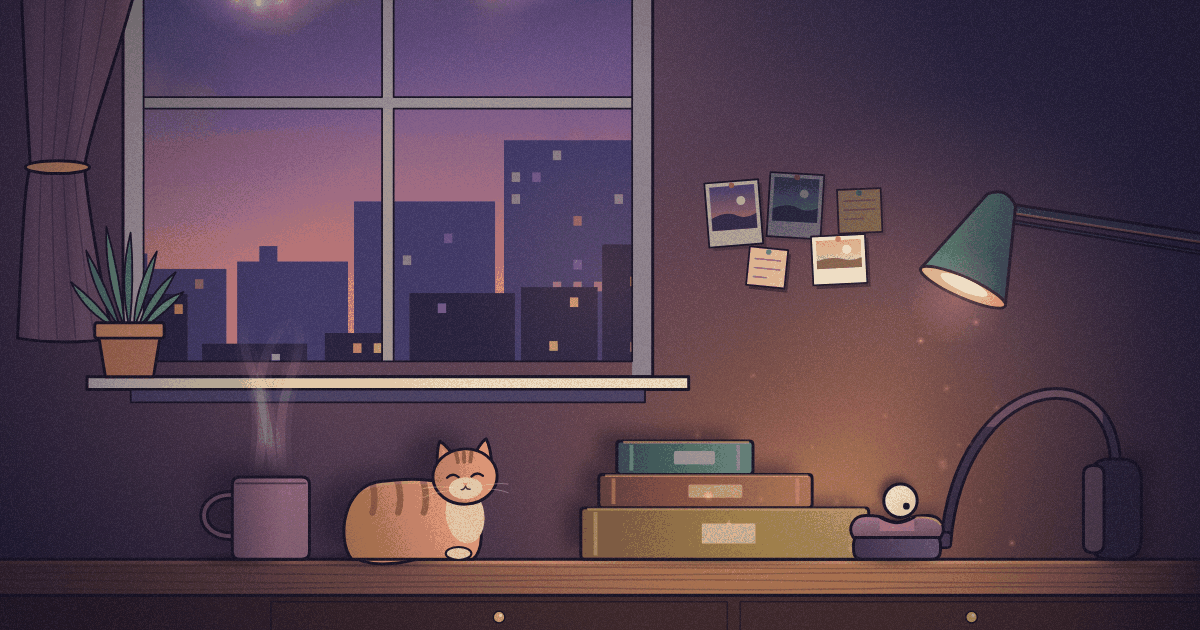
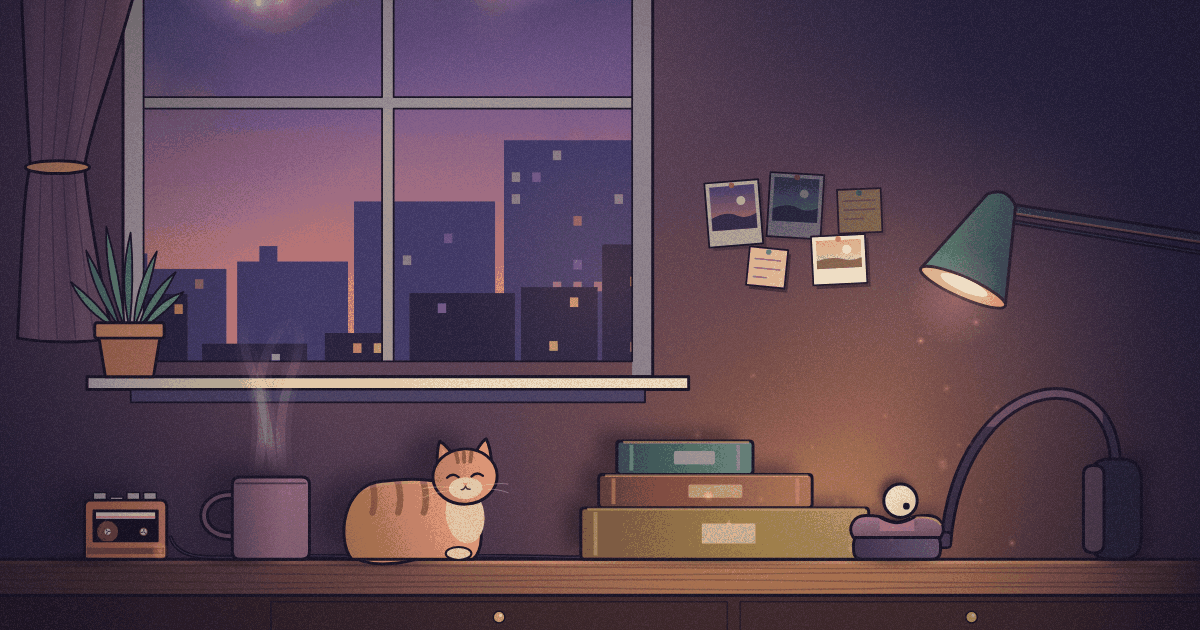
Soft Lamp: a Walkman, birds at dusk, and a cat that looks up
The fourth lofi pass:

- lamp/walkman.ts: a Walkman on the empty end of the desk left of the mug,
  in view through the sill's frames. The headphones' cable runs to it along
  the desk; the cassette's tape winds from one reel to the other over the
  half hour, a clock you can see; the play key is down while the music
  plays and comes up when it stops; its light flickers with the loudness.
  Held frames show it whole or not at all (it joins the check's props).
- Two small flocks of birds cross the dusk, one under the title.
- The cat looks up and follows a car's headlights across the wall.
- Share card regenerated; the report has the pass.

Changed region(s): [[0.0617, 0.7841, 0.1542, 0.9048], [0.4008, 0.8746, 0.4625, 0.9048]]

diff --git a/apps/rube/src/shows/versions/soft-lamp/lamp/walkman.ts b/apps/rube/src/shows/versions/soft-lamp/lamp/walkman.ts
@@ -1,0 +1,162 @@
+import { mixHex } from '../../../../parts'
+import { CUP, WALKMAN } from './desk'
+import { MUSIC_END, rmsAt } from './music'
+import { rgba } from './sky'
+import { INK, LAMP_ON, lampAt, lightAt, lit } from './world'
+
+/**
+ * The Walkman: what the headphones are plugged into, and the show's clock you can see. Through its window the cassette
+ * turns, the tape going from one reel to the other over the half hour, the take-up reel fuller as the night goes; its
+ * play key is down while the music plays and comes up when it stops; and its little red light flickers with how loud
+ * the music is. Its cable runs from the near cup along the desk, behind everything, and up into its side.
+ */
+
+type Ctx = CanvasRenderingContext2D
+
+/** When it plays: from the first chord to the music's end. */
+const playing = (t: number): boolean => t >= LAMP_ON - 0.5 && t <= MUSIC_END
+const progress = (t: number): number => Math.max(0, Math.min(1, t / MUSIC_END))
+
+/** The cable, from the near cup's shell down to the desk, along it, and up into the Walkman's side. */
+export function cable(ctx: Ctx, lw: number): void {
+  const y = -0.014
+  const jack = { x: WALKMAN.x1, y: -0.17 }
+  ctx.beginPath()
+  ctx.moveTo(CUP.x - CUP.halfW + 0.04, -0.1)
+  ctx.quadraticCurveTo(CUP.x - CUP.halfW - 0.12, y, CUP.x - CUP.halfW - 0.4, y)
+  // Lying along the desk, with the loose waves a cable keeps.
+  const from = CUP.x - CUP.halfW - 0.4
+  const to = jack.x + 0.35
+  const n = 40
+  for (let i = 1; i <= n; i++) {
+    const x = from + ((to - from) * i) / n
+    ctx.lineTo(x, y - Math.abs(Math.sin(x * 2.3)) * 0.012)
+  }
+  ctx.quadraticCurveTo(jack.x + 0.08, y, jack.x + 0.03, jack.y)
+  ctx.strokeStyle = INK
+  ctx.lineWidth = 0.032
+  ctx.stroke()
+  ctx.strokeStyle = '#3A3448'
+  ctx.lineWidth = 0.032 - lw
+  ctx.stroke()
+}
+
+export function walkman(ctx: Ctx, lw: number, t: number): void {
+  const { x0, x1, h } = WALKMAN
+  const w = x1 - x0
+  const l = Math.min(1, lightAt(x1, -h / 2, 1) * lampAt(t) * 1.6 + 0.22)
+  const shell = (c: string) => lit(mixHex(c, '#1E1A30', 0.6), c, l)
+  const on = playing(t)
+  // The keys along its top, the play key down while it plays.
+  for (let i = 0; i < 4; i++) {
+    const kx = x0 + 0.07 + i * 0.13
+    const down = i === 1 && on ? 0.035 : 0
+    ctx.beginPath()
+    ctx.rect(kx, -h - 0.06 + down, 0.1, 0.07)
+    ctx.fillStyle = shell(i === 1 ? '#E8DCC4' : '#B9AFA0')
+    ctx.fill()
+    ctx.strokeStyle = INK
+    ctx.lineWidth = lw * 0.5
+    ctx.stroke()
+  }
+  // The body.
+  const body = () => {
+    const r = 0.05
+    ctx.beginPath()
+    ctx.moveTo(x0 + r, -h)
+    ctx.lineTo(x1 - r, -h)
+    ctx.quadraticCurveTo(x1, -h, x1, -h + r)
+    ctx.lineTo(x1, -r * 0.4)
+    ctx.quadraticCurveTo(x1, 0, x1 - r, 0)
+    ctx.lineTo(x0 + r, 0)
+    ctx.quadraticCurveTo(x0, 0, x0, -r * 0.4)
+    ctx.lineTo(x0, -h + r)
+    ctx.quadraticCurveTo(x0, -h, x0 + r, -h)
+    ctx.closePath()
+  }
+  body()
+  const g = ctx.createLinearGradient(x0, 0, x1, 0)
+  g.addColorStop(0, shell('#B95F44'))
+  g.addColorStop(1, shell('#D98060'))
+  ctx.fillStyle = g
+  ctx.fill()
+  ctx.strokeStyle = INK
+  ctx.lineWidth = lw
+  ctx.stroke()
+  // A band across its foot.
+  ctx.fillStyle = shell('#8E4634')
+  ctx.fillRect(x0 + 0.02, -0.09, w - 0.04, 0.05)
+  // The window, and the cassette in it.
+  const wx0 = x0 + 0.07
+  const wx1 = x1 - 0.07
+  const wy0 = -h + 0.08
+  const wy1 = -0.14
+  ctx.beginPath()
+  ctx.rect(wx0, wy0, wx1 - wx0, wy1 - wy0)
+  ctx.fillStyle = '#16121C'
+  ctx.fill()
+  ctx.strokeStyle = INK
+  ctx.lineWidth = lw * 0.6
+  ctx.stroke()
+  ctx.save()
+  ctx.beginPath()
+  ctx.rect(wx0, wy0, wx1 - wx0, wy1 - wy0)
+  ctx.clip()
+  // The cassette's label.
+  ctx.fillStyle = shell('#EDE2CC')
+  ctx.fillRect(wx0 + 0.02, wy0 + 0.015, wx1 - wx0 - 0.04, 0.05)
+  ctx.fillStyle = shell('#E59A86')
+  ctx.fillRect(wx0 + 0.02, wy0 + 0.045, wx1 - wx0 - 0.04, 0.012)
+  // The reels: tape wound from the left to the right over the half hour; they turn as fast as the tape needs.
+  const p = progress(t)
+  const cy = (wy0 + 0.07 + wy1) / 2 + 0.01
+  const tt = Math.min(t, MUSIC_END)
+  const reels: [number, number][] = [[wx0 + 0.11, 0.03 + 0.055 * (1 - p)], [wx1 - 0.11, 0.03 + 0.055 * p]]
+  for (const [rx, rr] of reels) {
+    ctx.beginPath()
+    ctx.arc(rx, cy, rr, 0, Math.PI * 2)
+    ctx.fillStyle = shell('#7A4A30')
+    ctx.fill()
+    ctx.beginPath()
+    ctx.arc(rx, cy, 0.024, 0, Math.PI * 2)
+    ctx.fillStyle = shell('#E8DCC4')
+    ctx.fill()
+    // The hub's teeth, turning.
+    const a = (tt * 0.28) / rr
+    ctx.strokeStyle = rgba('#2A2230', 0.9)
+    ctx.lineWidth = 0.008
+    for (let k = 0; k < 3; k++) {
+      const ang = a + (k * Math.PI * 2) / 3
+      ctx.beginPath()
+      ctx.moveTo(rx + Math.cos(ang) * 0.006, cy + Math.sin(ang) * 0.006)
+      ctx.lineTo(rx + Math.cos(ang) * 0.02, cy + Math.sin(ang) * 0.02)
+      ctx.stroke()
+    }
+  }
+  ctx.restore()
+  // The glass's sheen.
+  ctx.strokeStyle = rgba('#FFFFFF', 0.12)
+  ctx.lineWidth = 0.012
+  ctx.beginPath()
+  ctx.moveTo(wx0 + 0.03, wy1 - 0.02)
+  ctx.lineTo(wx0 + 0.12, wy0 + 0.02)
+  ctx.stroke()
+  // The light: on while it plays, flickering with the music's loudness.
+  const lx = x1 - 0.05
+  const ly = -0.065
+  const v = on ? 0.45 + 0.55 * Math.min(1, rmsAt(t) * 1.6) : 0
+  ctx.beginPath()
+  ctx.arc(lx, ly, 0.014, 0, Math.PI * 2)
+  ctx.fillStyle = mixHex('#4A1A1A', '#FF5A4A', v)
+  ctx.fill()
+  if (v > 0) {
+    ctx.save()
+    ctx.globalCompositeOperation = 'lighter'
+    const gl = ctx.createRadialGradient(lx, ly, 0, lx, ly, 0.07)
+    gl.addColorStop(0, rgba('#FF5A4A', 0.5 * v))
+    gl.addColorStop(1, rgba('#FF5A4A', 0))
+    ctx.fillStyle = gl
+    ctx.fillRect(lx - 0.08, ly - 0.08, 0.16, 0.16)
+    ctx.restore()
+  }
+}

diff --git a/apps/rube/src/shows/versions/soft-lamp/lamp/sky.ts b/apps/rube/src/shows/versions/soft-lamp/lamp/sky.ts
@@ -37,6 +37,7 @@ export function night(ctx: Ctx, t: number): void {
   ctx.fillRect(GLASS.x0, GLASS.y0, W, H)
   stars(ctx, t, cloud)
   moon(ctx, t, cloud)
+  birds(ctx, t, sky.dusk)
   plane(ctx, t, cloud)
   clouds(ctx, t, cloud, sky)
   city(ctx, t, sky)
@@ -113,6 +114,35 @@ function moon(ctx: Ctx, t: number, cloud: number): void {
     ctx.beginPath()
     ctx.arc(x + dx, y + dy, r, 0, Math.PI * 2)
     ctx.fill()
+  }
+}
+
+/** Birds going home across the dusk: two small flocks, one under the title and one as the first track ends, wings beating, then gliding. */
+function birds(ctx: Ctx, t: number, dusk: number): void {
+  if (dusk < 0.2) return
+  for (const [at, y0, n] of [[4, -4.25, 5], [98, -3.75, 3]] as const) {
+    const s = t - at
+    const dur = 26
+    if (s < 0 || s > dur) continue
+    const u = s / dur
+    for (let i = 0; i < n; i++) {
+      // A loose V: each a little behind and to one side of the one ahead, and each its own beat.
+      const back = i * 0.16
+      const side = (i % 2 ? 1 : -1) * Math.ceil(i / 2) * 0.09
+      const x = GLASS.x0 - 0.4 + u * (W + 0.8) - back
+      const y = y0 + side + Math.sin(s * 0.9 + i) * 0.03 - u * 0.35
+      const beat = Math.sin(s * (7 + i * 0.6) + i * 1.7)
+      const glide = (Math.floor(s / 2.2 + i * 0.3) % 2) === 1
+      const wing = glide ? 0.15 : 0.35 * beat
+      const span = 0.07
+      ctx.beginPath()
+      ctx.moveTo(x - span, y - wing * span)
+      ctx.quadraticCurveTo(x - span * 0.4, y - 0.02 - wing * span * 0.3, x, y)
+      ctx.quadraticCurveTo(x + span * 0.4, y - 0.02 - wing * span * 0.3, x + span, y - wing * span)
+      ctx.strokeStyle = rgba('#2A2140', 0.85 * Math.min(1, dusk * 1.5))
+      ctx.lineWidth = 0.013
+      ctx.stroke()
+    }
   }
 }
 

diff --git a/apps/rube/src/shows/versions/soft-lamp/lamp/shade.ts b/apps/rube/src/shows/versions/soft-lamp/lamp/shade.ts
@@ -1,4 +1,4 @@
-import { BOOKS, CAT, CUP, FAR_CUP, GLASS, LAMP, MUG, R, SILL } from './desk'
+import { BOOKS, CAT, CUP, FAR_CUP, GLASS, LAMP, MUG, R, SILL, WALKMAN } from './desk'
 import { ballAt, hollowY } from './route'
 import { MOUTH, lampAt } from './world'
 
@@ -39,6 +39,7 @@ export function contacts(ctx: Ctx, t: number): void {
   const feet: [number, number, number][] = [
     // x middle, half width, y
     [MUG.x, MUG.halfW + 0.05, 0],
+    [(WALKMAN.x0 + WALKMAN.x1) / 2, (WALKMAN.x1 - WALKMAN.x0) / 2 + 0.05, 0],
     [(CAT.x0 + CAT.chest) / 2, (CAT.chest - CAT.x0) / 2 + 0.08, 0],
     [(BOOKS[2].x0 + BOOKS[2].x1) / 2, (BOOKS[2].x1 - BOOKS[2].x0) / 2 + 0.06, 0],
     [CUP.x, CUP.halfW + 0.05, 0],
@@ -110,6 +111,7 @@ export function wallShadows(ctx: Ctx, t: number): void {
     ctx.rect(x0, y0, x1 - x0, y1 - y0)
   }
   cast(MUG.x, rect(MUG.x - MUG.halfW, -MUG.h, MUG.x + MUG.halfW, 0), 0.4)
+  cast(WALKMAN.x1, rect(WALKMAN.x0, -WALKMAN.h, WALKMAN.x1, 0), 0.4)
   cast(CAT.chest, () => {
     ctx.beginPath()
     ctx.ellipse((CAT.x0 + CAT.chest) / 2, -0.25, (CAT.chest - CAT.x0) / 2, 0.36, 0, 0, Math.PI * 2)

diff --git a/apps/rube/src/shows/versions/soft-lamp/lamp/desk.ts b/apps/rube/src/shows/versions/soft-lamp/lamp/desk.ts
@@ -93,6 +93,12 @@ export const MUG = { x: -2.35, halfW: 0.3, h: 0.64 }
  */
 export const CAT = { x0: -1.78, chest: -0.76, top: -0.6, head: { x: -0.84, y: -0.66 } }
 
+/**
+ * A Walkman standing on the desk left of the mug, the headphones' cable running to it along the desk: what is playing.
+ * Its left edge, right edge and height.
+ */
+export const WALKMAN = { x0: -3.8, x1: -3.16, h: 0.46 }
+
 /** What is pinned to the wall between the window and the lamp, under the lamp's light: polaroids and notes. */
 export const NOTES = { x0: 1.0, x1: 2.62, y0: -3.02, y1: -2.08 }
 /** A small framed print on the wall right of the lamp, seen from the room's wide frame. */
@@ -115,5 +121,6 @@ export const PROPS: Record<string, [number, number, number, number]> = {
   shade: [LAMP.hinge.x - 0.45, LAMP.hinge.y - 0.2, LAMP.hinge.x + 0.1, -1.95],
   cat: [CAT.x0 - 0.04, -1.1, CAT.head.x + 0.34, 0],
   notes: [NOTES.x0, NOTES.y0, NOTES.x1, NOTES.y1],
+  walkman: [WALKMAN.x0 - 0.02, -WALKMAN.h - 0.07, WALKMAN.x1 + 0.03, 0],
   print: [PRINT.x0, PRINT.y0, PRINT.x1, PRINT.y1],
 }

diff --git a/apps/rube/src/shows/versions/soft-lamp/lamp/cat.ts b/apps/rube/src/shows/versions/soft-lamp/lamp/cat.ts
@@ -1,3 +1,4 @@
+import { sweepAt } from './decor'
 import { CAT } from './desk'
 import { TRACKS, barTime, beatOf, drumsAt, grooving, smooth, trackAt } from './music'
 import { LANDINGS, LAPS, ballAt } from './route'
@@ -30,8 +31,15 @@ const LAST = TRACKS[TRACKS.length - 1]
 const SLEEP_FROM = barTime(LAST, LAST.exit) + 3
 export const sleepAt = (t: number): number => smooth(t, SLEEP_FROM, SLEEP_FROM + 9)
 
-/** Where it is looking: the ball, a little behind (its eyes lead its head). */
+/** Where it is looking: the ball, a little behind (its eyes lead its head); or, while a car's lights cross the wall, those. */
 function gaze(t: number, lag: number): { x: number; y: number } {
+  const ball = ballGaze(t, lag)
+  const sw = sweepAt(t - 0.35)
+  const k = Math.min(1, sw.a * 1.6)
+  return { x: ball.x + (sw.x - ball.x) * k, y: ball.y + (sw.y - ball.y) * k }
+}
+
+function ballGaze(t: number, lag: number): { x: number; y: number } {
   let x = 0
   let y = 0
   let w = 0

diff --git a/apps/rube/src/shows/versions/soft-lamp/lamp/decor.ts b/apps/rube/src/shows/versions/soft-lamp/lamp/decor.ts
@@ -428,6 +428,19 @@ export const SWEEPS: number[] = (() => {
 })()
 const SWEEP_DUR = 4.2
 
+/** Where the sweep is on the wall at `t` and how bright, 0 to 1 (for the cat, who looks). */
+export function sweepAt(t: number): { x: number; y: number; a: number } {
+  let i = SWEEPS.length - 1
+  while (i >= 0 && SWEEPS[i] > t) i--
+  const dark = smooth(t, 120, 300)
+  if (i < 0 || dark <= 0) return { x: 0, y: 0, a: 0 }
+  const s = (t - SWEEPS[i]) / SWEEP_DUR
+  if (s < 0 || s > 1) return { x: 0, y: 0, a: 0 }
+  const dir = hash(i, 152) < 0.5 ? 1 : -1
+  const u = dir > 0 ? s : 1 - s
+  return { x: WINDOW.x1 + 0.15 + u * 7.4, y: -2.6, a: dark * Math.sin(Math.PI * s) }
+}
+
 export function headlights(ctx: Ctx, t: number): void {
   const dark = smooth(t, 120, 300)
   let i = SWEEPS.length - 1

diff --git a/apps/rube/src/shows/versions/soft-lamp/lamp/scene.ts b/apps/rube/src/shows/versions/soft-lamp/lamp/scene.ts
@@ -7,6 +7,7 @@ import { cat } from './cat'
 import { bloom, curtain, fairyGlowAt, fairyLights, grain, headlights, motes, notes, print, vignette } from './decor'
 import { ceiling, hanger, highShelf, underDesk } from './room'
 import { ballShadow, contacts, wallShadows } from './shade'
+import { cable, walkman } from './walkman'
 import { night, rgba } from './sky'
 import { CREAM, INK, MOUTH, lampAt, lampColor, lightAt, lit, skyAt } from './world'
 
@@ -696,6 +697,8 @@ export const things = scenery<null>(
   'things',
   (p, _s, c) => inCells(p, c, (ctx, lw) => {
     contacts(ctx, c.t)
+    cable(ctx, lw)
+    walkman(ctx, lw, c.t)
     mug(ctx, lw, c.t)
     steam(ctx, c.t)
     cat(ctx, lw, c.t)

diff --git a/apps/rube/src/shows/versions/soft-lamp/SOFTLAMP.md b/apps/rube/src/shows/versions/soft-lamp/SOFTLAMP.md
@@ -89,7 +89,8 @@ ping-pong ball, so a cell is about 15 cm and everything is its real size (the ca
 - **The mug**'s steam is the held sound, the pad and the keys under each track: three soft wisps, fuller as it swells,
   thinner through the night as the tea cools.
 - **The books** are the stair down.
-- **The headphones**' near cup is the listener's seat: the cup plays the kick, and the ball nods to it.
+- **The headphones**' near cup is the listener's seat: the cup plays the kick, and the ball nods to it. Their cable
+  runs along the desk to the Walkman, whose reels are the half hour's progress.
 - **The plant pot** is the stop the ball comes back off, and it rocks when it does.
 - **The cat** is the audience (`lamp/cat.ts`). Its head and eyes follow the ball, a little behind, as a cat's do: up
   at the sill over its head, round to the stair beside it, into the cup. It blinks, now and then slowly. An ear flicks
@@ -235,6 +236,19 @@ ball. The machine and its timing were right and are untouched; the room around i
     their knobs.
 27. **The steam was all but invisible**; it is half again as strong. The red light on the roof across the street was
     a blob close up; it is a point with a small glow.
+
+### The fourth lofi pass
+
+28. **The sill's frames, a large share of the half hour, had an empty end of desk** left of the mug. A Walkman stands
+    there now (`lamp/walkman.ts`), the headphones' cable running to it along the desk behind everything: what is
+    playing. Through its window the cassette turns, the tape going from one reel to the other over the half hour (a
+    clock you can see); its play key is down while the music plays and comes up when it stops; its little light
+    flickers with the music's loudness. The cable is back (it was subtracted in the first round, when it went
+    nowhere); it now has somewhere to go.
+29. **The dusk had no life in it.** Two small flocks of birds cross it, one under the title, one as the first track
+    ends, beating and gliding.
+30. **The cat ignored the headlights.** It looks up and follows them across the wall while they pass, then goes back
+    to the ball.
 
 **Subtracted:** the light cone; the pages turning on each track (considered and not built: the page is the notebook's
 second job); a cable from the headphones; a drinking bird that would have lifted the ball (a character, and a gag);
